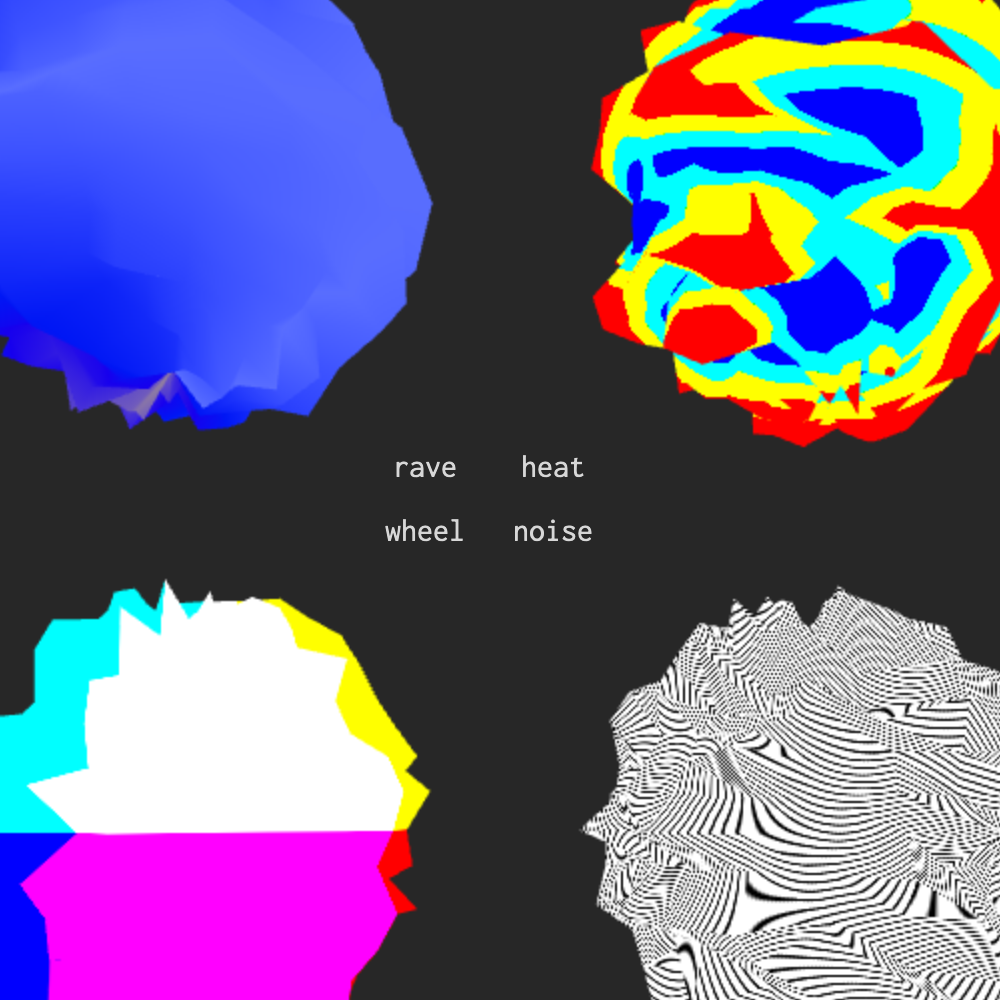
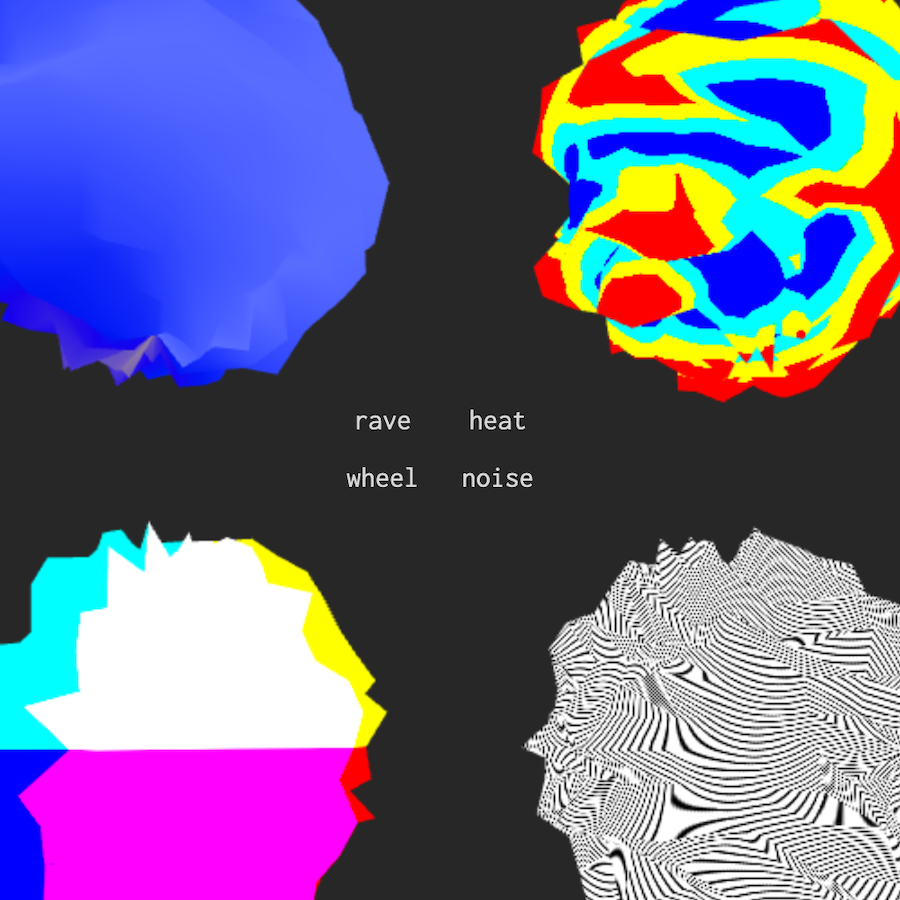
finesse project hover states

diff --git a/src/components/Portrait.svelte b/src/components/Portrait.svelte
@@ -1,12 +1,16 @@
-<script context="module">
+<script>
+  import { onMount, beforeUpdate } from 'svelte';
+
   const TWO_PI = Math.PI * 2;
-  const res = 16;
-  const halfRes = res / 2;
   const buffer = 30;
 
   let ctx, canvasRect;
   let points = [];
   let w, h, data;
+
+  let resolution = 16;
+  let img, canvas;
+  let warping = false;
 
   function tweenSize(p) {
     if (p.currentSize < p.size) {
@@ -57,7 +61,7 @@
   };
   const mousedShapes = Object.keys(drawShape).filter(s => s !== 'circle');
 
-  function addPoint(x, y, color) {
+  function addPoint(x, y, color, sizeMultiplier) {
     x += Math.random() - 0.5;
     y += Math.random() - 0.5;
     points.push({
@@ -68,7 +72,7 @@
       color,
       currentSize: 0,
       rate: Math.random() * 0.5 + 0.01,
-      size: Math.random() * halfRes + (halfRes / 2),
+      size: Math.random() * sizeMultiplier + (sizeMultiplier / 2),
       shape: 'circle',
       rotation: Math.random() * TWO_PI,
     });
@@ -81,16 +85,17 @@
     ctx.restore();
   }
 
-  function paint() {
-    const cols = w / res;
-    const rows = h / res;
+  function paint(resolution) {
+    const cols = w / resolution;
+    const rows = h / resolution;
+    const halfRes = resolution / 2;
 
     let x, y, pixelIndex, red, green, blue, alpha;
 
-    for (let row = 0; row < rows - 2; row++) {
-      y = row * res;
+    for (let row = 0; row < rows; row++) {
+      y = row * resolution;
       for (let col = 0; col < cols; col++) {
-        x = col * res;
+        x = col * resolution;
 
         pixelIndex = (x + y * w) * 4;
         red = data[pixelIndex + 0] || 0;
@@ -99,17 +104,13 @@
         alpha = data[pixelIndex + 3] > 0 ? 1 : 0;
 
         if (alpha) {
-          addPoint(x, y, `rgba(${red},${green},${blue},${alpha})`);
+          addPoint(x, y, `rgba(${red},${green},${blue},${alpha})`, halfRes);
         }
       }
     }
   }
-</script>
 
-<script>
-  import { onMount, beforeUpdate } from 'svelte';
-
-  let img;
+  export let active;
   onMount(() => {
     ctx = canvas.getContext('2d');
     canvasRect = canvas.getBoundingClientRect();
@@ -125,7 +126,7 @@
       data = ctx.getImageData(0, 0, canvas.width, canvas.height).data;
       ctx.clearRect(0, 0, canvas.width, canvas.height);
 
-      paint();
+      paint(resolution);
     };
     img.src = `./images/${active}.png`;
 
@@ -141,12 +142,14 @@
 
   beforeUpdate(() => {
     if (img && !img.src.endsWith(`${active}.png`)) {
+      if (active !== 'me') {
+        resolution *= 2;
+      } else {
+        resolution /= 2;
+      }
       img.src = `./images/${active}.png`;
     }
   });
-
-  let canvas;
-  let hovered = false;
 
   function handleResize() {
     canvasRect = canvas.getBoundingClientRect();
@@ -178,7 +181,7 @@
           p.shape = mousedShapes[index];
         }
       } else {
-        hovered = false;
+        warping = false;
         p.x = p.xOrig;
         p.y = p.yOrig;
         p.rotation = Math.random() * TWO_PI;
@@ -186,27 +189,47 @@
       }
     }
 
-    hovered = wasWithin;
+    warping = wasWithin;
   }
-
-  export let active;
 </script>
 
 <style>
-  canvas {
-    max-width: 100%;
-    max-height: 100%;
+  .portrait {
+    max-height: 100vh;
+    max-width: 100vh;
+    position: absolute;
+    bottom: -2rem;
+    right: 5vw;
   }
 
   .hovered {
+    bottom: -2rem;
+    right: 5vw;
+    transform: translate(35%, calc(-50% + 2rem));
+  }
+
+  canvas {
+    max-width: var(--dimensions);
+    max-height: var(--dimensions);
+  }
+
+  .warping {
     cursor: pointer;
+  }
+
+  .project {
+    outline: 1px solid var(--light-color);
   }
 </style>
 
 <svelte:window on:resize={handleResize} />
 
-<canvas
-  bind:this={canvas}
-  on:mousemove={handleMousemove}
-  class="{hovered ? 'hovered' : ''}"
-></canvas>
+<section class="portrait" class:hovered={active !== 'me'}>
+  <canvas
+    bind:this={canvas}
+    on:mousemove={handleMousemove}
+    style="--dimensions: {active !== 'me' ? '60%' : '100%'}"
+    class:warping
+    class:project={active !== 'me'}
+  ></canvas>
+</section>

diff --git a/src/routes/index.svelte b/src/routes/index.svelte
@@ -27,20 +27,32 @@
 <style>
   .intro {
     position: absolute;
-    top: 10vh;
+    top: 50%;
     left: 10vw;
+    transform: translateY(-50%);
     max-width: 40vw;
     pointer-events: none;
   }
 
   .projects {
-    padding: 1rem;
+    margin: 0 -0.5rem;
+    padding: 1rem 0;
     display: grid;
     grid-template-columns: 1fr;
+    list-style: none;
   }
 
   .projects a {
     pointer-events: auto;
+    display: inline-block;
+    padding: 0 0.5rem;
+    text-decoration: none;
+    transition: background-color 0.5s, color 0.5s;
+  }
+
+  .projects a:hover {
+    background-color: var(--light-color);
+    color: var(--dark-color);
   }
 
   @media (min-width: 1000px) {
@@ -54,23 +66,13 @@
       grid-template-columns: repeat(3, 1fr);
     }
   }
-
-  .portrait {
-    max-height: 100vh;
-    max-width: 100vh;
-    position: absolute;
-    bottom: -2rem;
-    right: 5vw;
-  }
 </style>
 
 <svelte:head>
   <title>shiftfoc.us</title>
 </svelte:head>
 
-<section class="portrait">
-  <Portrait active={active} />
-</section>
+<Portrait active={active} />
 
 <section class="intro">
   <h1>Hallo</h1>
